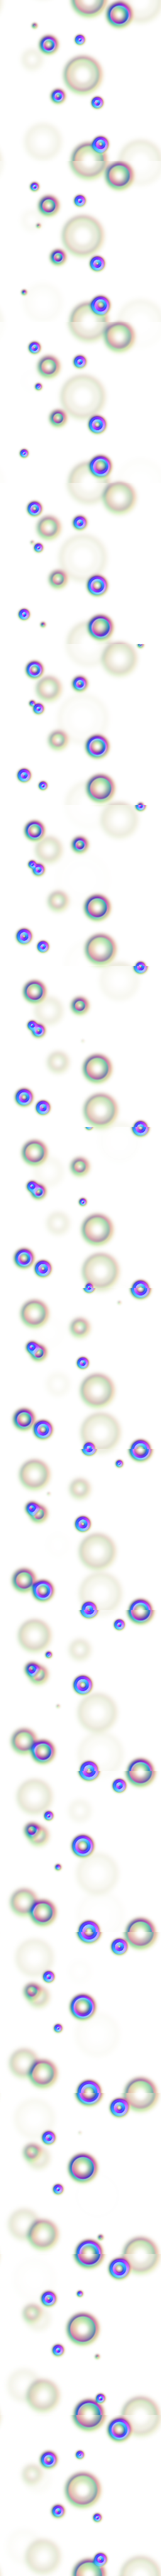
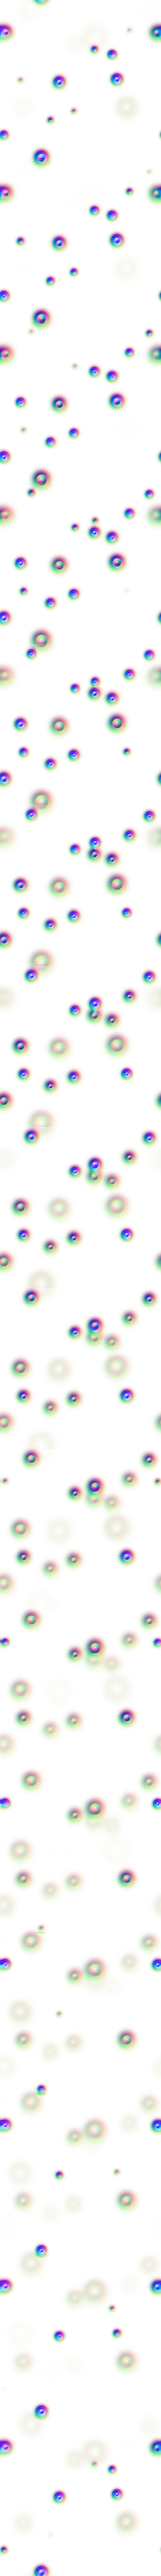
fix(v0.9): make ripple rings actually visible
v0.8 rings were invisible because tiny crests (3-5px) were mip-filtered away,
the normal perturbation was too weak, and the wet coat was too blurry.

- regenerate image/ripple.png: 18 sources per tile, radius 3-8%% (small),
  crest width 0.016+0.022*phase (thicker), two crests
- sample with textureLod(..., 0.0) so mipmaps do not erase the rings
- normal strength 0.25 -> 0.95, roughness perturbation 0.10 -> 0.16
- wet coat roughness 0.22 -> 0.14 (sharper mirror so rings can break it)
- shots: v0.9-zephyr-ripples.jpg vs reference-seus-ripples.jpg
- docs: changelog v0.9

diff --git a/docs/changelog.md b/docs/changelog.md
@@ -1,5 +1,25 @@
 # Changelog
 
+## v0.9 — 让涟漪真的「看得出环」（2026-11-05）
+
+v0.8 之后还是看不出环，原因有三个：
+
+1. **环太细被 mipmap 抹平**：256px 帧里环只有 3~5px，远处被过滤成一片模糊
+2. **法线强度不足**：0.25 的扰动量在低角度反射里几乎看不出来
+3. **湿地面太糊**：coat roughness 0.22 把反光糊掉，环没有可断的「镜面」
+
+修复：
+
+- 重新生成 `image/ripple.png`：18 个雨滴源/tile，环半径 3%~8%（更小），
+  环宽 0.016+0.022·phase（更粗，抗过滤），双环
+- 采样改用 `textureLod(..., 0.0)`，不让 mipmap 把环糊掉
+- 法线强度 `0.25 → 0.95`、粗糙度扰动 `0.10 → 0.16`
+- 湿地面 coat roughness `0.22 → 0.14`（更接近镜面，环才能断开反光）
+
+对照：`shots/reference-seus-ripples.jpg`（SEUS）vs `shots/v0.9-zephyr-ripples.jpg`（Zephyr）
+现在 Zephyr 的湿路面在太阳反光带上能清楚看到一串串小圆环。
+
+
 ## v0.8 — 对照 SEUS 调整涟漪密度/大小（2026-11-05）
 
 在游戏里切到 SEUS-Renewed 实机看了它的雨滴落地效果：地面像积了一层薄水，
